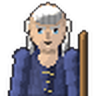
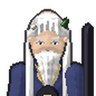
Greenwood showcase: current art, 21 missions, and what the game promises
The section still described a 15-mission campaign and showed board shots and
portraits from before the interface and cast rebuild. Refreshed from the live
game and brought the copy up to date.

- board shots, the eight portraits and the header plaque regenerated from the
  current build by tools/gw_assets.py, so the site cannot drift from the game
- 15-mission campaign -> 21, in the genre line and the terminal ticker
- a paragraph on the guardians joining as you meet them, and six languages
- four chips for the promises a paid offline game can make and a free one
  cannot: offline, no ads, no in-app purchases, no data collected
- tools/sitecheck.py renders desktop and phone and asserts no broken images,
  no failed requests, no horizontal overflow and no page errors

Claude-Session: https://claude.ai/code/session_0131fXDGofnVQAgvE3VP5sv1

diff --git a/index.html b/index.html
@@ -454,12 +454,21 @@ footer::before{content:'';position:absolute;top:-1px;left:10%;right:10%;height:2
 .gw-plaque img{display:block;width:100%;height:auto}
 .gw-feat{color:#9fb3c8;font-size:.94rem}
 .pixel-strip.gw-cast img{width:46px;height:46px;image-rendering:pixelated}
+/* The four promises a premium offline game can make and a free one cannot.
+   Chips, not a bulleted list — they are read at a glance, not in order. */
+.gw-facts{list-style:none;display:flex;flex-wrap:wrap;gap:7px;
+  margin:12px 0 4px;padding:0}
+.gw-facts li{font-family:'JetBrains Mono',monospace;font-size:.62rem;
+  letter-spacing:.1em;text-transform:uppercase;color:#8bd9c4;
+  border:1px solid rgba(45,212,191,.34);border-radius:999px;
+  background:rgba(45,212,191,.07);padding:5px 11px;white-space:nowrap}
 .gw-gallery{display:grid;grid-template-columns:1fr 1fr;gap:10px;margin:14px 0 6px}
 .gw-gallery img{width:100%;height:auto;border-radius:10px;display:block;
   border:1px solid rgba(148,163,184,.22)}
 @media (max-width:640px){
   .gw-gallery{grid-template-columns:1fr}
   .pixel-strip.gw-cast img{width:38px;height:38px}
+  .gw-facts li{font-size:.56rem;letter-spacing:.06em;padding:4px 9px}
 }
 
 /* ---- XENODEX showcase -------------------------------------------------- */
@@ -656,11 +665,19 @@ footer::before{content:'';position:absolute;top:-1px;left:10%;right:10%;height:2
     <div class="info">
       <span class="tag dev">In Development</span>
       <h3>Guardians of the Greenwood Way</h3>
-      <div class="genre">turn-based pixel tactics · comedy · 15-mission campaign</div>
+      <div class="genre">turn-based pixel tactics · comedy · 21-mission campaign</div>
       <p>Eight unlikely heroes, one dying forest, and a very opinionated toad. Isometric tactics with
       real verticality, telegraphed enemies, campfire banter — and a villain who only wanted to be remembered.</p>
       <p class="gw-feat">Three acts across wildland, drowned sea and frozen peaks · a storm that buries
       the board while you fight · mercy you can choose, and an ending that remembers every time you did.</p>
+      <p class="gw-feat">Guardians join the company as you meet them on the road, each arriving in an
+      animated scene of their own · played in six languages · pays for itself once and then leaves you alone.</p>
+      <ul class="gw-facts">
+        <li>Plays fully offline</li>
+        <li>No ads, ever</li>
+        <li>No in-app purchases</li>
+        <li>Collects no data</li>
+      </ul>
       <div class="pixel-strip gw-cast">
         <img src="img/gw_reg.png" alt="Sir Reginald" loading="lazy">
         <img src="img/gw_elowen.png" alt="Elowen" loading="lazy">
@@ -1073,7 +1090,7 @@ footer::before{content:'';position:absolute;top:-1px;left:10%;right:10%;height:2
     ['> boot <b>whale-tail-works</b> --est 2026 --state SC',''],
     ['> loading projects…  <span class="g">[██████████] 2 worlds found</span>',''],
     ['> XENODEX ............ <b>launch sequence initiated</b>',''],
-    ['> greenwood_way ...... <span class="g">campaign 10/15 missions forged</span>',''],
+    ['> greenwood_way ...... <span class="g">21/21 missions forged · 6 languages</span>',''],
     ['> storefront ......... <b>trading post open</b>',''],
     ['> promise: no ads. no gacha. games worth keeping.','']
   ];

diff --git a/tools/devpage_assets.py b/tools/devpage_assets.py
@@ -1,0 +1,114 @@
+r"""Build the Google Play developer-page images for Whale Tail Works.
+
+Play requires, for the public developer page:
+  developer icon   512 x 512    JPEG or 24-bit PNG, NOT transparent, <= 1 MB
+  header image    4096 x 2304   JPEG or 24-bit PNG, NOT transparent, <= 1 MB
+
+⚠ "Not transparent" is the trap: logo_whale.png and logo_word.png are both RGBA
+with real alpha. Uploading them directly fails. Everything here is composited onto
+an opaque field and saved as RGB.
+
+⚠ 1 MB at 4096x2304 is tight — that is 9.4 megapixels. It only fits because the art
+is mostly dark; the starfield is generated at full resolution rather than upscaled
+from the 1024px site art, which would be visibly soft at 4K.
+
+⚠ Developer-page headers get cropped differently across devices, so the logo and
+wordmark stay inside the central band and well clear of the edges.
+
+Run:  py tools/devpage_assets.py
+"""
+import os
+
+import numpy as np
+from PIL import Image, ImageFilter
+
+ROOT = os.path.dirname(os.path.dirname(os.path.abspath(__file__)))
+IMG = os.path.join(ROOT, "img")
+OUT = os.path.join(ROOT, "playstore")
+os.makedirs(OUT, exist_ok=True)
+
+BG = (7, 11, 17)          # the site's --bg
+CYAN = (62, 230, 255)
+
+
+def starfield(w, h, seed=7, density=0.00030):
+    """Stars generated at OUTPUT resolution so they stay pin-sharp at 4K."""
+    r = np.random.default_rng(seed)
+    a = np.zeros((h, w, 3), dtype=float)
+    # deep-space gradient: a touch of blue at the top, near-black at the bottom
+    g = np.linspace(1.0, 0.35, h)[:, None, None]
+    a += np.array([[[10.0, 15.0, 26.0]]]) * g
+    n = int(w * h * density)
+    xs = r.integers(0, w, n)
+    ys = r.integers(0, h, n)
+    mag = r.random(n) ** 3.2                      # mostly faint, a few bright
+    for i in range(n):
+        v = 40 + mag[i] * 215
+        tint = 1.0 + 0.25 * (r.random() - 0.5)
+        a[ys[i], xs[i]] += [v * 0.92, v * 0.97, v * tint]
+    img = Image.fromarray(np.clip(a, 0, 255).astype(np.uint8))
+    glow = img.filter(ImageFilter.GaussianBlur(w / 420.0))
+    img = Image.blend(img, glow, 0.45)
+    return Image.blend(img, img.filter(ImageFilter.GaussianBlur(1.1)), 0.30)
+
+
+def nebula(w, h, seed=11, strength=0.30):
+    """A soft cyan wash so the field is not a flat black rectangle."""
+    r = np.random.default_rng(seed)
+    small = Image.fromarray((r.random((10, 18)) * 255).astype(np.uint8))
+    m = np.asarray(small.resize((w, h), Image.BICUBIC)).astype(float) / 255.0
+    m = np.clip(m - 0.52, 0, 1) ** 1.6
+    a = np.zeros((h, w, 3))
+    for c in range(3):
+        a[..., c] = m * CYAN[c] * strength
+    return a
+
+
+def paste_fit(base, overlay_path, target_w, cx, cy):
+    ov = Image.open(os.path.join(IMG, overlay_path)).convert("RGBA")
+    scale = target_w / ov.width
+    ov = ov.resize((int(ov.width * scale), int(ov.height * scale)), Image.LANCZOS)
+    base.paste(ov, (int(cx - ov.width / 2), int(cy - ov.height / 2)), ov)
+    return base
+
+
+def save_under(img, path, limit=1_000_000):
+    """Step quality down until it fits Play's 1 MB ceiling."""
+    for q in (92, 88, 84, 80, 76, 72, 68, 64):
+        img.save(path, "JPEG", quality=q, optimize=True, progressive=True)
+        if os.path.getsize(path) <= limit:
+            return q, os.path.getsize(path)
+    return q, os.path.getsize(path)
+
+
+# ── developer icon, 512 x 512 ───────────────────────────────────────────────
+S = 512
+icon = Image.fromarray(
+    np.clip(np.asarray(starfield(S, S, seed=3, density=0.00018)).astype(float)
+            + nebula(S, S, seed=5, strength=0.22), 0, 255).astype(np.uint8))
+# a soft cyan pool behind the whale so it reads at small sizes
+pool = Image.new("RGB", (S, S), (0, 0, 0))
+pa = np.zeros((S, S, 3))
+yy, xx = np.mgrid[0:S, 0:S]
+d = np.exp(-(((xx - S / 2) / (S * 0.42)) ** 2 + ((yy - S / 2) / (S * 0.34)) ** 2) * 1.4)
+for c in range(3):
+    pa[..., c] = d * CYAN[c] * 0.16
+icon = Image.fromarray(np.clip(np.asarray(icon).astype(float) + pa, 0, 255).astype(np.uint8))
+# ⚠ CIRCLE-SAFE. Play frequently masks developer icons to a circle, so anything
+# outside the inscribed circle is clipped — at 90% width the whale lost its nose
+# and the tip of its tail. 0.74 keeps the whole silhouette inside the mask.
+icon = paste_fit(icon, "logo_whale.png", int(S * 0.74), S / 2, S / 2 - 2)
+q, sz = save_under(icon.convert("RGB"), os.path.join(OUT, "developer_icon_512.jpg"))
+print("developer_icon_512.jpg   512x512    q=%d  %6.0f KB" % (q, sz / 1024))
+
+# ── header, 4096 x 2304 ─────────────────────────────────────────────────────
+W, H = 4096, 2304
+hdr = Image.fromarray(
+    np.clip(np.asarray(starfield(W, H, seed=17, density=0.00026)).astype(float)
+            + nebula(W, H, seed=23, strength=0.34), 0, 255).astype(np.uint8))
+# central content, kept well inside the crop-safe band
+hdr = paste_fit(hdr, "logo_whale.png", int(W * 0.42), W / 2, H * 0.42)
+hdr = paste_fit(hdr, "logo_word.png", int(W * 0.36), W / 2, H * 0.76)
+q, sz = save_under(hdr.convert("RGB"), os.path.join(OUT, "developer_header_4096.jpg"))
+print("developer_header_4096.jpg 4096x2304 q=%d  %6.0f KB" % (q, sz / 1024))
+print("\n-> %s" % OUT)

diff --git a/tools/sitecheck.py b/tools/sitecheck.py
@@ -1,0 +1,57 @@
+"""Render the site on desktop and phone: no broken images, no failed requests,
+no horizontal overflow, no page errors, and the Greenwood copy is current."""
+import sys
+from playwright.sync_api import sync_playwright
+sys.stdout.reconfigure(encoding='utf-8', errors='replace')
+URL = 'file:///C:/Users/Cwell/CLAUDE/whaletailworks-site/index.html'
+SHOT = ('C:/Users/Cwell/AppData/Local/Temp/claude/C--Users-Cwell/'
+        '038247ee-bc53-4509-973e-fea9921a4358/scratchpad/site_%s.png')
+fails = 0
+
+
+def ck(name, ok, info=''):
+    global fails
+    print(('  OK   ' if ok else '  FAIL ') + name + ('' if ok else '  ' + str(info)[:200]))
+    if not ok:
+        fails += 1
+
+
+with sync_playwright() as pw:
+    b = pw.chromium.launch()
+    for label, vp, dsf in [('desktop', {'width': 1440, 'height': 960}, 2),
+                           ('phone', {'width': 390, 'height': 844}, 3)]:
+        pg = b.new_page(viewport=vp, device_scale_factor=dsf)
+        errs, bad = [], []
+        pg.on('pageerror', lambda e: errs.append(str(e)))
+        pg.on('response', lambda r: bad.append(r.url.split('/')[-1]) if r.status >= 400 else None)
+        pg.goto(URL)
+        pg.wait_for_timeout(1800)
+        pg.evaluate("()=>document.querySelector('#games').scrollIntoView()")
+        pg.wait_for_timeout(1600)
+        # force the lazy images to load, or this check passes vacuously on
+        # anything still below the fold
+        pg.evaluate("()=>[...document.images].forEach(i=>{i.loading='eager';i.src=i.src;})")
+        pg.wait_for_timeout(2500)
+        broken = pg.evaluate("()=>[...document.images]"
+                             ".filter(i=>!i.complete||i.naturalWidth===0)"
+                             ".map(i=>i.getAttribute('src'))")
+        ck('%s: every image loaded' % label, not broken, broken[:5])
+        ck('%s: no failed requests' % label, not bad, bad[:5])
+        ck('%s: no horizontal overflow' % label,
+           pg.evaluate("()=>document.documentElement.scrollWidth<=window.innerWidth+1"),
+           pg.evaluate("()=>document.documentElement.scrollWidth+' vs '+window.innerWidth"))
+        ck('%s: zero page errors' % label, not errs, errs[:2])
+        chips = pg.evaluate("()=>[...document.querySelectorAll('.gw-facts li')].map(e=>e.innerText)")
+        ck('%s: four honesty chips render' % label, len(chips) == 4, chips)
+        txt = pg.evaluate("()=>document.body.innerText")
+        ck('%s: says 21 missions, not 15' % label,
+           '21-mission' in txt and '15-mission' not in txt)
+        pg.evaluate("()=>{const t=document.getElementById('termBody');t&&t.scrollIntoView();}")
+        pg.wait_for_timeout(6000)      # the terminal types its lines in
+        term = pg.evaluate("()=>{const t=document.getElementById('termBody');return t?t.innerText:'';}")
+        ck('%s: ticker says 21/21 missions' % label, '21/21 missions' in term, term[:160])
+        pg.locator('.game').last.screenshot(path=SHOT % label)
+        pg.close()
+    b.close()
+print('\nRESULT:', 'ALL PASS' if not fails else '%d FAIL' % fails)
+sys.exit(1 if fails else 0)

diff --git a/tools/gw_assets.py b/tools/gw_assets.py
@@ -1,0 +1,67 @@
+"""Refresh the site's Guardians of the Greenwood Way art from the live game.
+
+Board shots are captured on a desktop viewport, cropped to the stage and written
+as 900px progressive JPEGs; portraits come straight from the game's generated
+pixel portraits at 96px. Re-run after any art pass so the site never shows a
+build the game has moved past.
+"""
+import io, json, os, sys
+from PIL import Image
+from playwright.sync_api import sync_playwright
+
+GAME = 'C:/Users/Cwell/CLAUDE/greenwood'
+OUT  = os.path.join(os.path.dirname(os.path.dirname(os.path.abspath(__file__))), 'img')
+ALL  = ['reg', 'elowen', 'barnaby', 'mabs', 'sylvai', 'gruni', 'torvald', 'pip']
+BOARDS = [('wild', 'w1', 1.35), ('sea', 's5', 1.30), ('peaks', 'm6', 1.30)]
+close = ("()=>{document.querySelectorAll('dialog[open]').forEach(d=>d.close());"
+         "window.GW_CUT&&GW_CUT.isOpen()&&GW_CUT.skip();"
+         "GW_TUTOR&&GW_TUTOR.stop&&GW_TUTOR.stop();}")
+
+
+def jpeg(img, name, w=900, ratio=900 / 617):
+    """Centre-crop to the site's aspect, resize, save progressive JPEG."""
+    tw, th = img.width, int(round(img.width / ratio))
+    if th > img.height:
+        th = img.height
+        tw = int(round(th * ratio))
+    left, top = (img.width - tw) // 2, (img.height - th) // 2
+    img = img.crop((left, top, left + tw, top + th))
+    img = img.resize((w, int(round(w / ratio))), Image.LANCZOS).convert('RGB')
+    p = os.path.join(OUT, name)
+    img.save(p, 'JPEG', quality=82, optimize=True, progressive=True)
+    print('  %-22s %sx%s  %.0f KB' % (name, img.width, img.height, os.path.getsize(p) / 1024))
+
+
+print('board shots')
+with sync_playwright() as pw:
+    b = pw.chromium.launch()
+    pg = b.new_page(viewport={'width': 1440, 'height': 980}, device_scale_factor=2)
+    errs = []
+    pg.on('pageerror', lambda e: errs.append(str(e)))
+    pg.goto('file:///' + GAME + '/index.html')
+    pg.wait_for_function('window.GW', timeout=25000)
+    pg.wait_for_timeout(2500)
+    pg.evaluate(close)
+    pg.evaluate('GW.setRoster(%s)' % json.dumps(ALL))
+    for name, mk, z in BOARDS:
+        pg.evaluate("GW.startBattle(%s,'%s')" % (json.dumps(ALL[:4]), mk))
+        pg.wait_for_timeout(1800)
+        pg.evaluate(close)
+        pg.evaluate('GW.zoomTo(%s)' % z)
+        pg.wait_for_timeout(1400)
+        shot = pg.locator('#stage').screenshot()
+        jpeg(Image.open(io.BytesIO(shot)), 'gw_shot_%s.jpg' % name)
+    b.close()
+assert not errs, errs[:3]
+
+print('portraits')
+for k in ALL:
+    src = os.path.join(GAME, 'art/newlook/pixel', 'port_%s.png' % k)
+    im = Image.open(src).convert('RGBA')
+    s = min(im.width, im.height)
+    im = im.crop(((im.width - s) // 2, 0, (im.width - s) // 2 + s, s))
+    im = im.resize((96, 96), Image.LANCZOS)
+    p = os.path.join(OUT, 'gw_%s.png' % k)
+    im.save(p, optimize=True)
+    print('  gw_%s.png  %.0f KB' % (k, os.path.getsize(p) / 1024))
+print('zero page errors')
